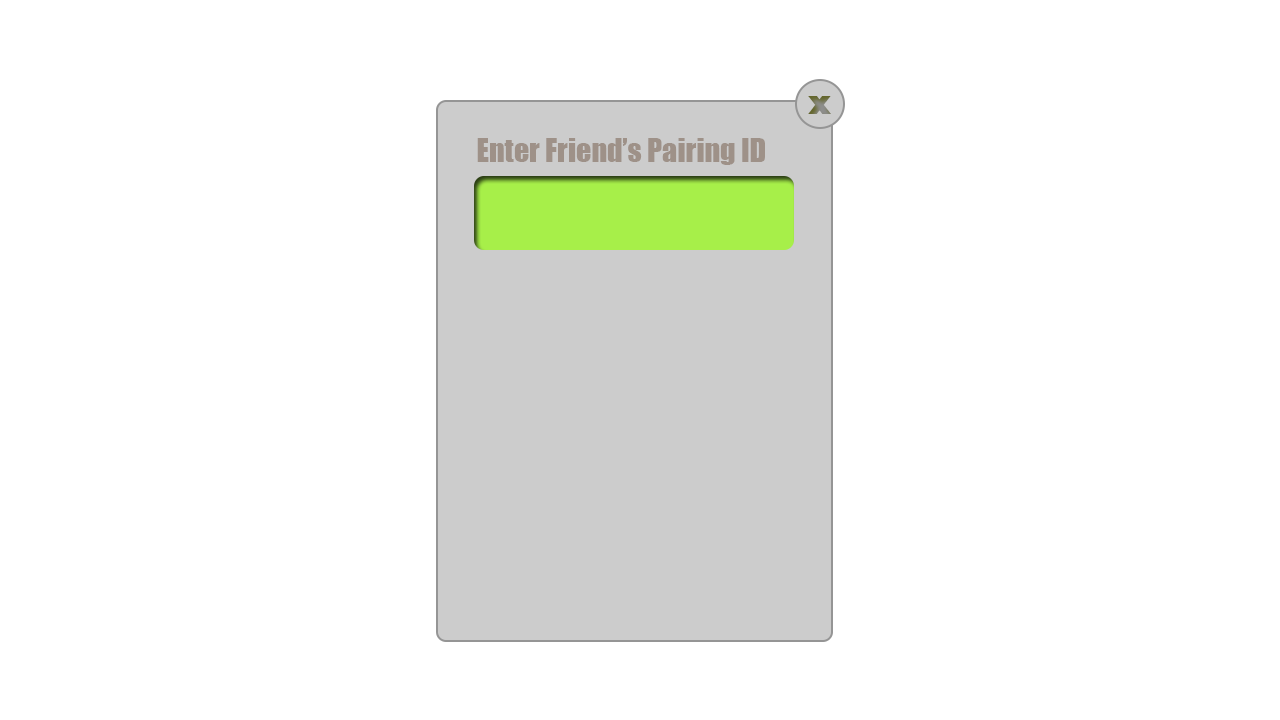
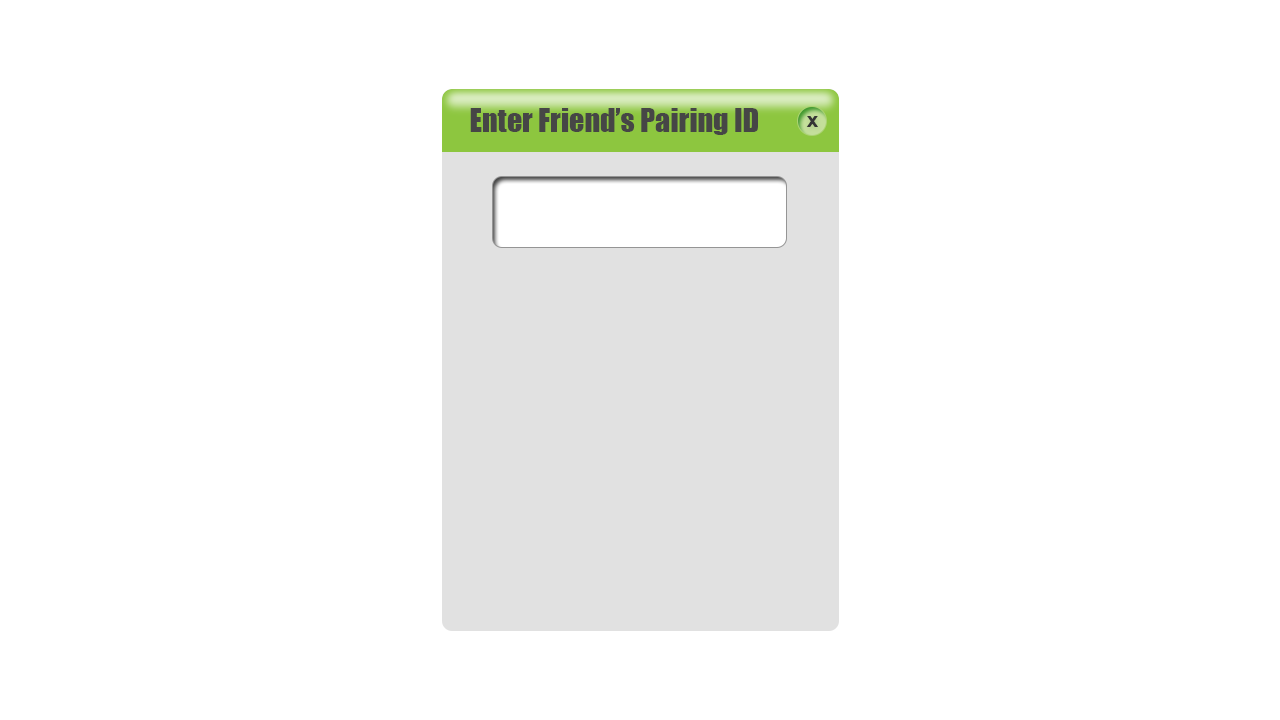
Change In Design

Changed region(s): [[0.3438, 0.0917, 0.6562, 0.9167]]

diff --git a/client/assets/js/main.js b/client/assets/js/main.js
@@ -146,7 +146,7 @@ window.onload = function () {
 
             //....
             this.load.image('pairing_placement', 'client/assets/images/intro/pairing_placement.png');
-            this.load.spritesheet('keys', 'client/assets/images/intro/keyboard_2.png', { frameWidth: 110, frameHeight: 85 });
+            this.load.spritesheet('keys', 'client/assets/images/intro/keyboardBtns.png', { frameWidth: 85, frameHeight: 85 });
 
             //...
             this.load.image('prompt', 'client/assets/images/intro/prompt.png');
@@ -789,13 +789,13 @@ window.onload = function () {
             this.screenElements = [];
             
 
-            var rectBg = this.add.rectangle ( 0, 0, _gameW, _gameH, 0x000000, 0.65 ).setOrigin(0).setInteractive();
+            var rectBg = this.add.rectangle ( 0, 0, _gameW, _gameH, 0x000000, 0.8 ).setOrigin(0).setInteractive();
 
             var window = this.add.image (0, 0, 'pairing_placement' ).setOrigin ( 0 ).setScale(_gameW/1280);
 
             var cX = Math.floor ( 797 * _gameW/1280 ),
-                cY = Math.floor ( 80 * _gameH/720 ),
-                cS = Math.floor ( 23 * _gameW/1280 );
+                cY = Math.floor ( 106 * _gameH/720 ),
+                cS = Math.floor ( 15 * _gameW/1280 );
 
             var circ = this.add.circle ( cX, cY, cS, 0xc3c3c3, 1 ).setAlpha(0.1).setOrigin(0).setInteractive();
 
@@ -827,36 +827,45 @@ window.onload = function () {
 
             var inputCount = 0, maxInput = 6;
 
-            var xW = Math.floor ( 106 * _gameW/1280 ),
+            var xW = Math.floor ( 105 * _gameW/1280 ),
                 xH = Math.floor ( 83 * _gameW/1280 ),
                 xSp = Math.floor ( 3 * _gameW/1280 ),
 
-                //xStart =  (_gameW - ((3 * (xW + xSp)) - xSp))/2,
-                xStart =  Math.floor ( 471 * _gameW/1280 ),
-                yStart =  Math.floor ( 265 * _gameW/1280 );
+                xStart =  ((_gameW - ((3 * (xW + xSp)) - xSp))/2) + xW/2,
+                //xStart =  Math.floor ( 482 * _gameW/1280 ),
+                yStart =  Math.floor ( 305 * _gameW/1280 );
+
+            var keysVal = [ '1', '2', '3', '4', '5', '6', '7', '8', '9', '0', 'clr', 'ok' ];
 
             for ( var i = 0; i < 12; i++ ) {
 
                 var ix = Math.floor ( i/3 ), iy = i%3;
 
-                var keys = this.add.image ( xStart + iy * (xW + xSp), yStart + ix *( xH + xSp ), 'keys' ).setScale(_gameW/1280).setOrigin ( 0 ).setFrame(i).setData('frame', i).setInteractive();
+                var xs = xStart + iy * (xW + xSp),
+                    ys = yStart + ix *( xH + xSp );
+
+                var keys = this.add.image ( xs, ys, 'keys' ).setScale(_gameW/1280).setData('id', i).setInteractive();
 
                 keys.on('pointerover', function () {
-                    this.setFrame ( this.getData('frame') + 12 );
+                    //this.setFrame (2);
                 });
                 keys.on('pointerout', function () {
-                    this.setFrame ( this.getData('frame') );
+                    this.setFrame ( 0 );
+                });
+                keys.on('pointerup', function () {
+                    this.setFrame ( 0 );
                 });
                 keys.on('pointerdown', function () {
                 
+                   this.setFrame ( 1 );
 
-                    var data = this.getData('frame');
+                    var data = this.getData('id');
 
                     if ( data < 10 ) {
 
                         if ( inputCount < maxInput ) {
 
-                            this.setFrame ( data + 12 );
+                            //this.setFrame ( data + 12 );
 
                             if ( inputCount == 0 ) txt.text = '';
 
@@ -911,7 +920,14 @@ window.onload = function () {
                 
                 });
 
+                //add texts..
+                var txts = this.add.text ( xs, ys, keysVal[i], { color : '#4b4b4b', fontSize: xH * 0.4, fontFamily : 'Impact' }).setOrigin(0.5);
+
                 this.screenElements.push ( keys );
+
+                this.screenElements.push ( txts );
+
+
             }
 
 
